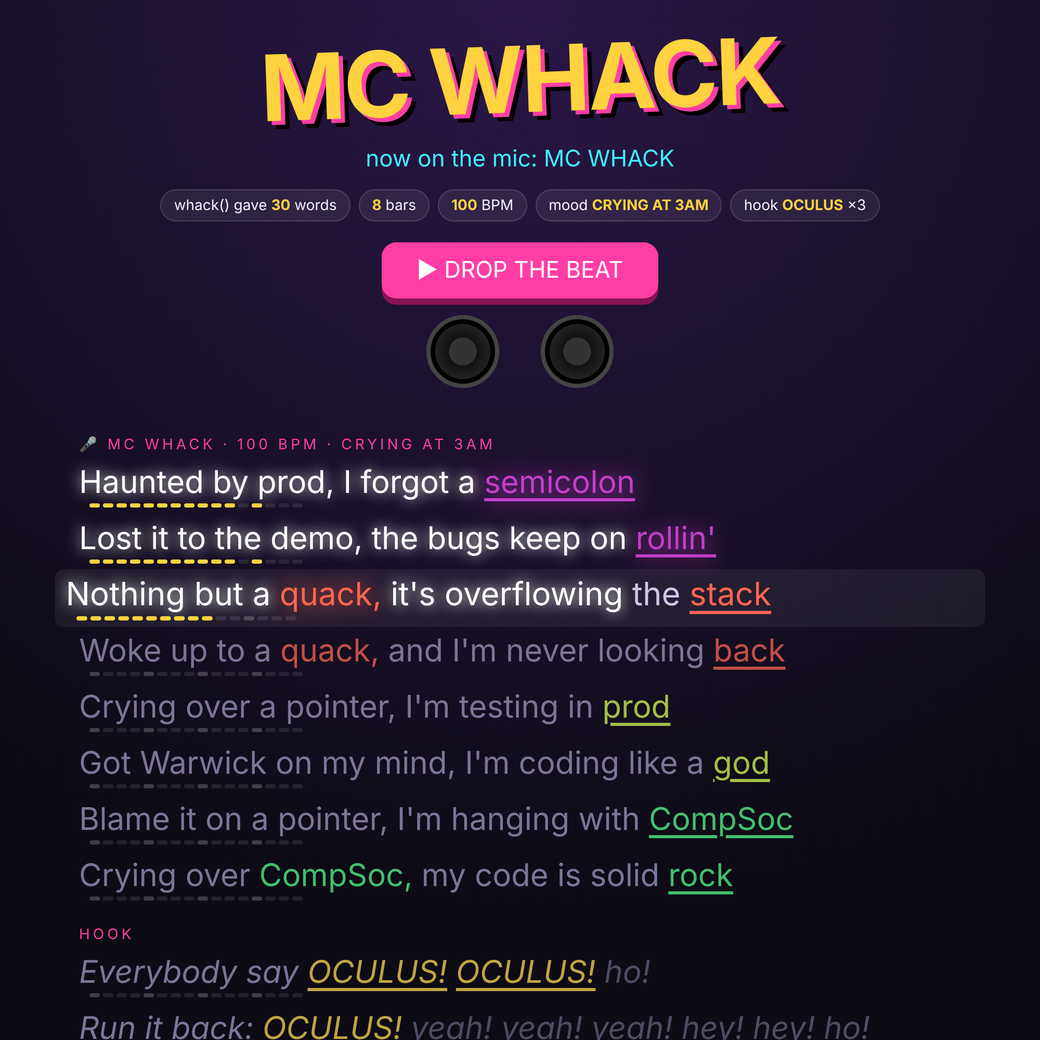
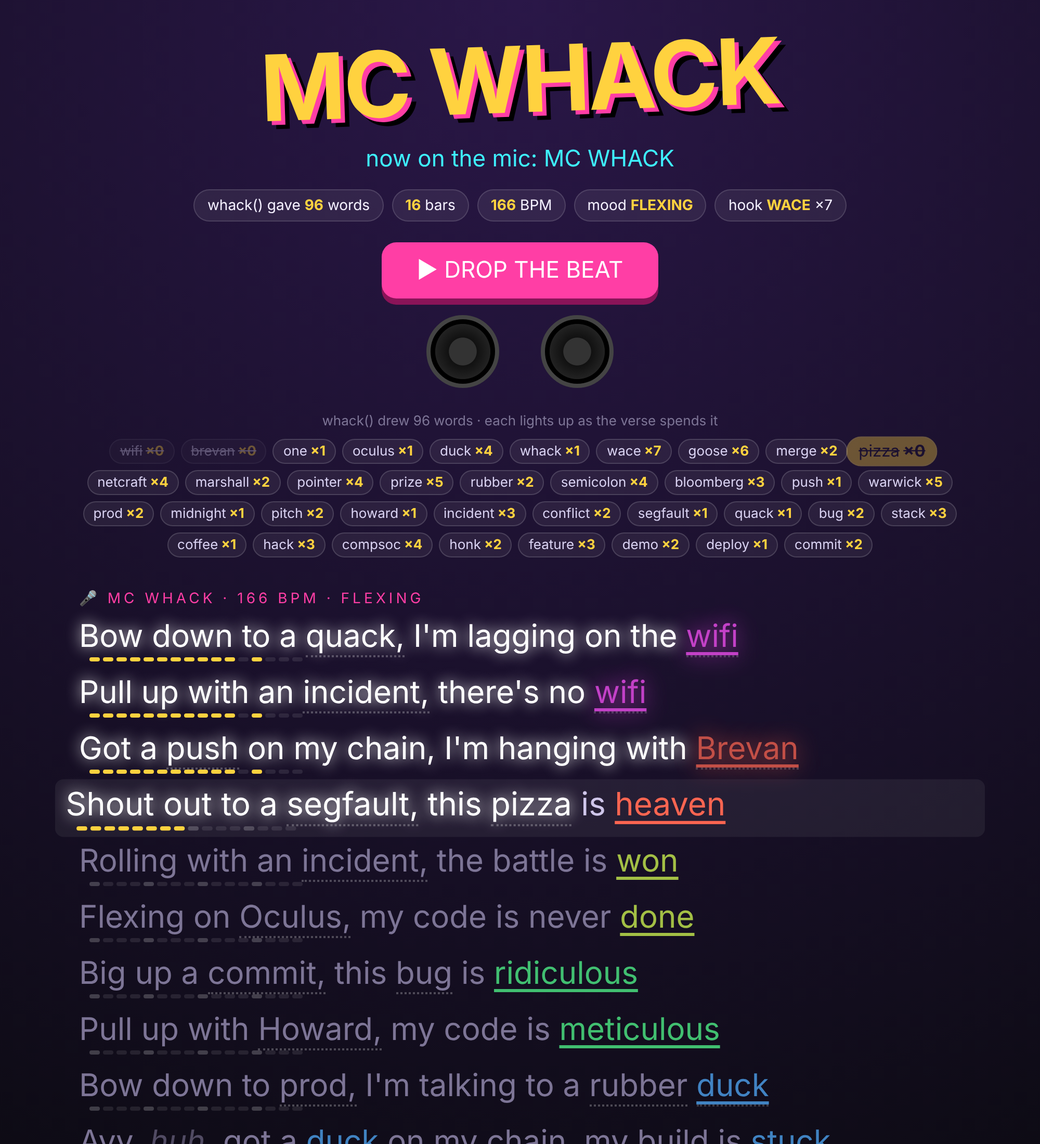
MC WHACK: replace raw whack() dump with word chips that count down as the verse uses them
Claude-Session: https://claude.ai/code/session_01NchHMKWQKNwH82y9pP3Ypa

Changed region(s): [[0.031, 0.031, 0.93, 1.0], [0.868, 0.682, 0.961, 0.744], [0.31, 0.341, 0.341, 0.372]]

diff --git a/submissions/felixlyon12/example_verse.html b/submissions/felixlyon12/example_verse.html
@@ -40,6 +40,15 @@
   .line.hook { font-style:italic; }
   .sec { color:var(--pink); font-size:14px; letter-spacing:3px; margin:18px 10px 4px; font-family:system-ui,sans-serif; }
   .winner { text-align:center; font-size:40px; color:var(--hot); margin:20px; }
+  #tray { max-width:900px; margin:6px auto 0; padding:0 16px; text-align:center; font-family:system-ui,sans-serif; }
+  #tray .lbl { color:var(--dim); font-size:13px; margin-bottom:6px; }
+  .chip { display:inline-block; margin:3px; padding:3px 9px; border-radius:999px; font-size:13px;
+          background:#ffffff10; border:1px solid #ffffff25; color:#d9d2f2; transition:all .15s; }
+  .chip b { color:var(--hot); margin-left:3px; }
+  .chip.flash { background:var(--hot); color:#1a1030; transform:scale(1.2); }
+  .chip.flash b { color:#1a1030; }
+  .chip.spent { opacity:.35; text-decoration:line-through; }
+  .line .w.lw { border-bottom:2px dotted #ffffff40; }
   #source { max-width:900px; margin:0 auto 40px; padding:0 16px; font-family:ui-monospace,monospace; font-size:12px;
             color:var(--dim); word-break:break-word; }
 </style>
@@ -53,10 +62,11 @@
   <button id="again" style="background:#3a2d5c;box-shadow:0 6px 0 #1d1530">🎲 NEW VERSE</button>
   <div id="speakers"><div class="spk"></div><div class="spk"></div></div>
 </header>
+<div id="tray"></div>
 <div id="lyrics"></div>
 <div id="source"></div>
 <script>
-let VERSES = [{"words": ["semicolon", "oculus", "stack", "prod", "compsoc", "netcraft", "wifi", "push", "incident", "warwick", "demo", "quack", "one", "commit", "oculus", "goose", "pointer", "oculus", "coffee", "quack", "coffee", "prod", "stack", "compsoc", "sleep", "merge", "wifi", "commit", "null", "pointer"], "count": 30, "bars": 8, "bpm": 100, "mood": "CRYING AT 3AM", "hook": "oculus", "hook_count": 3, "lines": [{"tokens": [{"t": "Haunted ", "syl": 2, "kind": "word", "fam": "olon"}, {"t": "by ", "syl": 1, "kind": "word", "fam": "olon"}, {"t": "prod, ", "syl": 1, "kind": "word", "fam": "olon"}, {"t": "I ", "syl": 1, "kind": "word", "fam": "olon"}, {"t": "forgot ", "syl": 2, "kind": "word", "fam": "olon"}, {"t": "a ", "syl": 1, "kind": "word", "fam": "olon"}, {"t": "semicolon", "syl": 4, "kind": "end", "fam": "olon"}], "end": "semicolon", "family": "olon", "whack": true, "whack_rhymes": 0}, {"tokens": [{"t": "Lost ", "syl": 1, "kind": "word", "fam": "olon"}, {"t": "it ", "syl": 1, "kind": "word", "fam": "olon"}, {"t": "to ", "syl": 1, "kind": "word", "fam": "olon"}, {"t": "the ", "syl": 1, "kind": "word", "fam": "olon"}, {"t": "demo, ", "syl": 2, "kind": "word", "fam": "olon"}, {"t": "the ", "syl": 1, "kind": "word", "fam": "olon"}, {"t": "bugs ", "syl": 1, "kind": "word", "fam": "olon"}, {"t": "keep ", "syl": 1, "kind": "word", "fam": "olon"}, {"t": "on ", "syl": 1, "kind": "word", "fam": "olon"}, {"t": "rollin'", "syl": 2, "kind": "end", "fam": "olon"}], "end": "rollin'", "family": "olon", "whack": false, "whack_rhymes": 0}, {"tokens": [{"t": "Nothing ", "syl": 2, "kind": "word", "fam": "ack"}, {"t": "but ", "syl": 1, "kind": "word", "fam": "ack"}, {"t": "a ", "syl": 1, "kind": "word", "fam": "ack"}, {"t": "quack, ", "syl": 1, "kind": "rhyme", "fam": "ack"}, {"t": "it's ", "syl": 1, "kind": "word", "fam": "ack"}, {"t": "overflowing ", "syl": 4, "kind": "word", "fam": "ack"}, {"t": "the ", "syl": 1, "kind": "word", "fam": "ack"}, {"t": "stack", "syl": 1, "kind": "end", "fam": "ack"}], "end": "stack", "family": "ack", "whack": true, "whack_rhymes": 1}, {"tokens": [{"t": "Woke ", "syl": 1, "kind": "word", "fam": "ack"}, {"t": "up ", "syl": 1, "kind": "word", "fam": "ack"}, {"t": "to ", "syl": 1, "kind": "word", "fam": "ack"}, {"t": "a ", "syl": 1, "kind": "word", "fam": "ack"}, {"t": "quack, ", "syl": 1, "kind": "rhyme", "fam": "ack"}, {"t": "and ", "syl": 1, "kind": "word", "fam": "ack"}, {"t": "I'm ", "syl": 1, "kind": "word", "fam": "ack"}, {"t": "never ", "syl": 2, "kind": "word", "fam": "ack"}, {"t": "looking ", "syl": 2, "kind": "word", "fam": "ack"}, {"t": "back", "syl": 1, "kind": "end", "fam": "ack"}], "end": "back", "family": "ack", "whack": false, "whack_rhymes": 1}, {"tokens": [{"t": "Crying ", "syl": 2, "kind": "word", "fam": "od"}, {"t": "over ", "syl": 2, "kind": "word", "fam": "od"}, {"t": "a ", "syl": 1, "kind": "word", "fam": "od"}, {"t": "pointer, ", "syl": 2, "kind": "word", "fam": "od"}, {"t": "I'm ", "syl": 1, "kind": "word", "fam": "od"}, {"t": "testing ", "syl": 2, "kind": "word", "fam": "od"}, {"t": "in ", "syl": 1, "kind": "word", "fam": "od"}, {"t": "prod", "syl": 1, "kind": "end", "fam": "od"}], "end": "prod", "family": "od", "whack": true, "whack_rhymes": 0}, {"tokens": [{"t": "Got ", "syl": 1, "kind": "word", "fam": "od"}, {"t": "Warwick ", "syl": 2, "kind": "word", "fam": "od"}, {"t": "on ", "syl": 1, "kind": "word", "fam": "od"}, {"t": "my ", "syl": 1, "kind": "word", "fam": "od"}, {"t": "mind, ", "syl": 1, "kind": "word", "fam": "od"}, {"t": "I'm ", "syl": 1, "kind": "word", "fam": "od"}, {"t": "coding ", "syl": 2, "kind": "word", "fam": "od"}, {"t": "like ", "syl": 1, "kind": "word", "fam": "od"}, {"t": "a ", "syl": 1, "kind": "word", "fam": "od"}, {"t": "god", "syl": 1, "kind": "end", "fam": "od"}], "end": "god", "family": "od", "whack": false, "whack_rhymes": 0}, {"tokens": [{"t": "Blame ", "syl": 1, "kind": "word", "fam": "ock"}, {"t": "it ", "syl": 1, "kind": "word", "fam": "ock"}, {"t": "on ", "syl": 1, "kind": "word", "fam": "ock"}, {"t": "a ", "syl": 1, "kind": "word", "fam": "ock"}, {"t": "pointer, ", "syl": 2, "kind": "word", "fam": "ock"}, {"t": "I'm ", "syl": 1, "kind": "word", "fam": "ock"}, {"t": "hanging ", "syl": 2, "kind": "word", "fam": "ock"}, {"t": "with ", "syl": 1, "kind": "word", "fam": "ock"}, {"t": "CompSoc", "syl": 2, "kind": "end", "fam": "ock"}], "end": "compsoc", "family": "ock", "whack": true, "whack_rhymes": 0}, {"tokens": [{"t": "Crying ", "syl": 2, "kind": "word", "fam": "ock"}, {"t": "over ", "syl": 2, "kind": "word", "fam": "ock"}, {"t": "CompSoc, ", "syl": 2, "kind": "rhyme", "fam": "ock"}, {"t": "my ", "syl": 1, "kind": "word", "fam": "ock"}, {"t": "code ", "syl": 1, "kind": "word", "fam": "ock"}, {"t": "is ", "syl": 1, "kind": "word", "fam": "ock"}, {"t": "solid ", "syl": 2, "kind": "word", "fam": "ock"}, {"t": "rock", "syl": 1, "kind": "end", "fam": "ock"}], "end": "rock", "family": "ock", "whack": false, "whack_rhymes": 1}, {"tokens": [{"t": "Everybody ", "syl": 4, "kind": "text", "fam": null}, {"t": "say ", "syl": 1, "kind": "text", "fam": null}, {"t": "OCULUS! ", "syl": 3, "kind": "end", "fam": "hook"}, {"t": "OCULUS! ", "syl": 3, "kind": "end", "fam": "hook"}, {"t": "ho!", "syl": 1, "kind": "adlib", "fam": null}], "end": "oculus", "family": "hook", "whack": true, "whack_rhymes": 0}, {"tokens": [{"t": "Run ", "syl": 1, "kind": "text", "fam": null}, {"t": "it ", "syl": 1, "kind": "text", "fam": null}, {"t": "back: ", "syl": 1, "kind": "text", "fam": null}, {"t": "OCULUS! ", "syl": 3, "kind": "end", "fam": "hook"}, {"t": "yeah! ", "syl": 1, "kind": "adlib", "fam": null}, {"t": "yeah! ", "syl": 1, "kind": "adlib", "fam": null}, {"t": "yeah! ", "syl": 1, "kind": "adlib", "fam": null}, {"t": "hey! ", "syl": 1, "kind": "adlib", "fam": null}, {"t": "hey! ", "syl": 1, "kind": "adlib", "fam": null}, {"t": "ho!", "syl": 1, "kind": "adlib", "fam": null}], "end": "oculus", "family": "hook", "whack": true, "whack_rhymes": 0}], "flow": [0, 1, 2, 3, 4, 5, 6, 7, 8, 9, 10, 12], "true_rhymes": 7, "mc": "MC WHACK"}];
+let VERSES = [{"words": ["wifi", "brevan", "one", "oculus", "duck", "whack", "wace", "goose", "wace", "merge", "pizza", "duck", "netcraft", "marshall", "pointer", "prize", "prize", "rubber", "wace", "prize", "semicolon", "bloomberg", "push", "wace", "warwick", "prod", "midnight", "pitch", "pitch", "duck", "netcraft", "marshall", "howard", "incident", "conflict", "segfault", "quack", "push", "quack", "semicolon", "wace", "warwick", "goose", "bug", "stack", "coffee", "goose", "duck", "pointer", "hack", "compsoc", "goose", "segfault", "semicolon", "stack", "pointer", "honk", "feature", "wace", "bloomberg", "demo", "demo", "honk", "wace", "deploy", "stack", "warwick", "feature", "compsoc", "goose", "pointer", "commit", "compsoc", "incident", "hack", "commit", "feature", "hack", "warwick", "incident", "bloomberg", "goose", "semicolon", "prize", "prod", "conflict", "netcraft", "netcraft", "compsoc", "rubber", "warwick", "merge", "wifi", "prize", "incident", "bug"], "count": 96, "bars": 16, "bpm": 166, "mood": "FLEXING", "hook": "wace", "hook_count": 7, "lines": [{"tokens": [{"t": "Bow ", "syl": 1, "kind": "word", "fam": "ifi", "list": null}, {"t": "down ", "syl": 1, "kind": "word", "fam": "ifi", "list": null}, {"t": "to ", "syl": 1, "kind": "word", "fam": "ifi", "list": null}, {"t": "a ", "syl": 1, "kind": "word", "fam": "ifi", "list": null}, {"t": "quack, ", "syl": 1, "kind": "word", "fam": "ifi", "list": "quack"}, {"t": "I'm ", "syl": 1, "kind": "word", "fam": "ifi", "list": null}, {"t": "lagging ", "syl": 2, "kind": "word", "fam": "ifi", "list": null}, {"t": "on ", "syl": 1, "kind": "word", "fam": "ifi", "list": null}, {"t": "the ", "syl": 1, "kind": "word", "fam": "ifi", "list": null}, {"t": "wifi", "syl": 2, "kind": "end", "fam": "ifi", "list": "wifi"}], "end": "wifi", "family": "ifi", "whack": true, "whack_rhymes": 0}, {"tokens": [{"t": "Pull ", "syl": 1, "kind": "word", "fam": "ifi", "list": null}, {"t": "up ", "syl": 1, "kind": "word", "fam": "ifi", "list": null}, {"t": "with ", "syl": 1, "kind": "word", "fam": "ifi", "list": null}, {"t": "an ", "syl": 1, "kind": "word", "fam": "ifi", "list": null}, {"t": "incident, ", "syl": 3, "kind": "word", "fam": "ifi", "list": "incident"}, {"t": "there's ", "syl": 2, "kind": "word", "fam": "ifi", "list": null}, {"t": "no ", "syl": 1, "kind": "word", "fam": "ifi", "list": null}, {"t": "wifi", "syl": 2, "kind": "end", "fam": "ifi", "list": "wifi"}], "end": "wifi", "family": "ifi", "whack": true, "whack_rhymes": 0}, {"tokens": [{"t": "Got ", "syl": 1, "kind": "word", "fam": "even", "list": null}, {"t": "a ", "syl": 1, "kind": "word", "fam": "even", "list": null}, {"t": "push ", "syl": 1, "kind": "word", "fam": "even", "list": "push"}, {"t": "on ", "syl": 1, "kind": "word", "fam": "even", "list": null}, {"t": "my ", "syl": 1, "kind": "word", "fam": "even", "list": null}, {"t": "chain, ", "syl": 1, "kind": "word", "fam": "even", "list": null}, {"t": "I'm ", "syl": 1, "kind": "word", "fam": "even", "list": null}, {"t": "hanging ", "syl": 2, "kind": "word", "fam": "even", "list": null}, {"t": "with ", "syl": 1, "kind": "word", "fam": "even", "list": null}, {"t": "Brevan", "syl": 2, "kind": "end", "fam": "even", "list": "brevan"}], "end": "brevan", "family": "even", "whack": true, "whack_rhymes": 0}, {"tokens": [{"t": "Shout ", "syl": 1, "kind": "word", "fam": "even", "list": null}, {"t": "out ", "syl": 1, "kind": "word", "fam": "even", "list": null}, {"t": "to ", "syl": 1, "kind": "word", "fam": "even", "list": null}, {"t": "a ", "syl": 1, "kind": "word", "fam": "even", "list": null}, {"t": "segfault, ", "syl": 2, "kind": "word", "fam": "even", "list": "segfault"}, {"t": "this ", "syl": 1, "kind": "word", "fam": "even", "list": null}, {"t": "pizza ", "syl": 2, "kind": "word", "fam": "even", "list": "pizza"}, {"t": "is ", "syl": 1, "kind": "word", "fam": "even", "list": null}, {"t": "heaven", "syl": 2, "kind": "end", "fam": "even", "list": null}], "end": "heaven", "family": "even", "whack": false, "whack_rhymes": 0}, {"tokens": [{"t": "Rolling ", "syl": 2, "kind": "word", "fam": "un", "list": null}, {"t": "with ", "syl": 1, "kind": "word", "fam": "un", "list": null}, {"t": "an ", "syl": 1, "kind": "word", "fam": "un", "list": null}, {"t": "incident, ", "syl": 3, "kind": "word", "fam": "un", "list": "incident"}, {"t": "the ", "syl": 1, "kind": "word", "fam": "un", "list": null}, {"t": "battle ", "syl": 2, "kind": "word", "fam": "un", "list": null}, {"t": "is ", "syl": 1, "kind": "word", "fam": "un", "list": null}, {"t": "won", "syl": 1, "kind": "end", "fam": "un", "list": null}], "end": "won", "family": "un", "whack": false, "whack_rhymes": 0}, {"tokens": [{"t": "Flexing ", "syl": 2, "kind": "word", "fam": "un", "list": null}, {"t": "on ", "syl": 1, "kind": "word", "fam": "un", "list": null}, {"t": "Oculus, ", "syl": 3, "kind": "word", "fam": "un", "list": "oculus"}, {"t": "my ", "syl": 1, "kind": "word", "fam": "un", "list": null}, {"t": "code ", "syl": 1, "kind": "word", "fam": "un", "list": null}, {"t": "is ", "syl": 1, "kind": "word", "fam": "un", "list": null}, {"t": "never ", "syl": 2, "kind": "word", "fam": "un", "list": null}, {"t": "done", "syl": 1, "kind": "end", "fam": "un", "list": null}], "end": "done", "family": "un", "whack": false, "whack_rhymes": 0}, {"tokens": [{"t": "Big ", "syl": 1, "kind": "word", "fam": "iculous", "list": null}, {"t": "up ", "syl": 1, "kind": "word", "fam": "iculous", "list": null}, {"t": "a ", "syl": 1, "kind": "word", "fam": "iculous", "list": null}, {"t": "commit, ", "syl": 2, "kind": "word", "fam": "iculous", "list": "commit"}, {"t": "this ", "syl": 1, "kind": "word", "fam": "iculous", "list": null}, {"t": "bug ", "syl": 1, "kind": "word", "fam": "iculous", "list": "bug"}, {"t": "is ", "syl": 1, "kind": "word", "fam": "iculous", "list": null}, {"t": "ridiculous", "syl": 4, "kind": "end", "fam": "iculous", "list": null}], "end": "ridiculous", "family": "iculous", "whack": false, "whack_rhymes": 0}, {"tokens": [{"t": "Pull ", "syl": 1, "kind": "word", "fam": "iculous", "list": null}, {"t": "up ", "syl": 1, "kind": "word", "fam": "iculous", "list": null}, {"t": "with ", "syl": 1, "kind": "word", "fam": "iculous", "list": null}, {"t": "Howard, ", "syl": 2, "kind": "word", "fam": "iculous", "list": "howard"}, {"t": "my ", "syl": 1, "kind": "word", "fam": "iculous", "list": null}, {"t": "code ", "syl": 1, "kind": "word", "fam": "iculous", "list": null}, {"t": "is ", "syl": 1, "kind": "word", "fam": "iculous", "list": null}, {"t": "meticulous", "syl": 4, "kind": "end", "fam": "iculous", "list": null}], "end": "meticulous", "family": "iculous", "whack": false, "whack_rhymes": 0}, {"tokens": [{"t": "Bow ", "syl": 1, "kind": "word", "fam": "uck", "list": null}, {"t": "down ", "syl": 1, "kind": "word", "fam": "uck", "list": null}, {"t": "to ", "syl": 1, "kind": "word", "fam": "uck", "list": null}, {"t": "prod, ", "syl": 1, "kind": "word", "fam": "uck", "list": "prod"}, {"t": "I'm ", "syl": 1, "kind": "word", "fam": "uck", "list": null}, {"t": "talking ", "syl": 2, "kind": "word", "fam": "uck", "list": null}, {"t": "to ", "syl": 1, "kind": "word", "fam": "uck", "list": null}, {"t": "a ", "syl": 1, "kind": "word", "fam": "uck", "list": null}, {"t": "rubber ", "syl": 2, "kind": "word", "fam": "uck", "list": "rubber"}, {"t": "duck", "syl": 1, "kind": "end", "fam": "uck", "list": "duck"}], "end": "duck", "family": "uck", "whack": true, "whack_rhymes": 0}, {"tokens": [{"t": "Ayy, ", "syl": 1, "kind": "word", "fam": "uck", "list": null}, {"t": "huh, ", "syl": 1, "kind": "adlib", "fam": "uck", "list": null}, {"t": "got ", "syl": 1, "kind": "word", "fam": "uck", "list": null}, {"t": "a ", "syl": 1, "kind": "word", "fam": "uck", "list": null}, {"t": "duck ", "syl": 1, "kind": "rhyme", "fam": "uck", "list": "duck"}, {"t": "on ", "syl": 1, "kind": "word", "fam": "uck", "list": null}, {"t": "my ", "syl": 1, "kind": "word", "fam": "uck", "list": null}, {"t": "chain, ", "syl": 1, "kind": "word", "fam": "uck", "list": null}, {"t": "my ", "syl": 1, "kind": "word", "fam": "uck", "list": null}, {"t": "build ", "syl": 1, "kind": "word", "fam": "uck", "list": null}, {"t": "is ", "syl": 1, "kind": "word", "fam": "uck", "list": null}, {"t": "stuck", "syl": 1, "kind": "end", "fam": "uck", "list": null}], "end": "stuck", "family": "uck", "whack": false, "whack_rhymes": 1}, {"tokens": [{"t": "Yeah, ", "syl": 1, "kind": "word", "fam": "ack", "list": null}, {"t": "yo, ", "syl": 1, "kind": "adlib", "fam": "ack", "list": null}, {"t": "rolling ", "syl": 2, "kind": "word", "fam": "ack", "list": null}, {"t": "with ", "syl": 1, "kind": "word", "fam": "ack", "list": null}, {"t": "the ", "syl": 1, "kind": "word", "fam": "ack", "list": null}, {"t": "stack, ", "syl": 1, "kind": "rhyme", "fam": "ack", "list": "stack"}, {"t": "the ", "syl": 1, "kind": "word", "fam": "ack", "list": null}, {"t": "duck ", "syl": 1, "kind": "word", "fam": "ack", "list": "duck"}, {"t": "just ", "syl": 1, "kind": "word", "fam": "ack", "list": null}, {"t": "said ", "syl": 1, "kind": "word", "fam": "ack", "list": null}, {"t": "quack", "syl": 1, "kind": "end", "fam": "ack", "list": "quack"}], "end": "quack", "family": "ack", "whack": true, "whack_rhymes": 1}, {"tokens": [{"t": "Shout ", "syl": 1, "kind": "word", "fam": "ack", "list": null}, {"t": "out ", "syl": 1, "kind": "word", "fam": "ack", "list": null}, {"t": "to ", "syl": 1, "kind": "word", "fam": "ack", "list": null}, {"t": "a ", "syl": 1, "kind": "word", "fam": "ack", "list": null}, {"t": "hack, ", "syl": 1, "kind": "rhyme", "fam": "ack", "list": "hack"}, {"t": "it's ", "syl": 1, "kind": "word", "fam": "ack", "list": null}, {"t": "overflowing ", "syl": 4, "kind": "word", "fam": "ack", "list": null}, {"t": "the ", "syl": 1, "kind": "word", "fam": "ack", "list": null}, {"t": "stack", "syl": 1, "kind": "end", "fam": "ack", "list": "stack"}], "end": "stack", "family": "ack", "whack": true, "whack_rhymes": 1}, {"tokens": [{"t": "Flexing ", "syl": 2, "kind": "word", "fam": "ace", "list": null}, {"t": "on ", "syl": 1, "kind": "word", "fam": "ace", "list": null}, {"t": "a ", "syl": 1, "kind": "word", "fam": "ace", "list": null}, {"t": "conflict, ", "syl": 2, "kind": "word", "fam": "ace", "list": "conflict"}, {"t": "a ", "syl": 1, "kind": "word", "fam": "ace", "list": null}, {"t": "smile ", "syl": 2, "kind": "word", "fam": "ace", "list": null}, {"t": "on ", "syl": 1, "kind": "word", "fam": "ace", "list": null}, {"t": "my ", "syl": 1, "kind": "word", "fam": "ace", "list": null}, {"t": "face", "syl": 1, "kind": "end", "fam": "ace", "list": null}], "end": "face", "family": "ace", "whack": false, "whack_rhymes": 0}, {"tokens": [{"t": "Big ", "syl": 1, "kind": "word", "fam": "ace", "list": null}, {"t": "up ", "syl": 1, "kind": "word", "fam": "ace", "list": null}, {"t": "a ", "syl": 1, "kind": "word", "fam": "ace", "list": null}, {"t": "semicolon, ", "syl": 4, "kind": "word", "fam": "ace", "list": "semicolon"}, {"t": "I'm ", "syl": 1, "kind": "word", "fam": "ace", "list": null}, {"t": "winning ", "syl": 2, "kind": "word", "fam": "ace", "list": null}, {"t": "the ", "syl": 1, "kind": "word", "fam": "ace", "list": null}, {"t": "race", "syl": 1, "kind": "end", "fam": "ace", "list": null}], "end": "race", "family": "ace", "whack": false, "whack_rhymes": 0}, {"tokens": [{"t": "Shout ", "syl": 1, "kind": "word", "fam": "oose", "list": null}, {"t": "out ", "syl": 1, "kind": "word", "fam": "oose", "list": null}, {"t": "to ", "syl": 1, "kind": "word", "fam": "oose", "list": null}, {"t": "a ", "syl": 1, "kind": "word", "fam": "oose", "list": null}, {"t": "conflict, ", "syl": 2, "kind": "word", "fam": "oose", "list": "conflict"}, {"t": "I'm ", "syl": 1, "kind": "word", "fam": "oose", "list": null}, {"t": "chased ", "syl": 2, "kind": "word", "fam": "oose", "list": null}, {"t": "by ", "syl": 1, "kind": "word", "fam": "oose", "list": null}, {"t": "a ", "syl": 1, "kind": "word", "fam": "oose", "list": null}, {"t": "goose", "syl": 1, "kind": "end", "fam": "oose", "list": "goose"}], "end": "goose", "family": "oose", "whack": true, "whack_rhymes": 0}, {"tokens": [{"t": "Got ", "syl": 1, "kind": "word", "fam": "oose", "list": null}, {"t": "a ", "syl": 1, "kind": "word", "fam": "oose", "list": null}, {"t": "goose ", "syl": 1, "kind": "rhyme", "fam": "oose", "list": "goose"}, {"t": "on ", "syl": 1, "kind": "word", "fam": "oose", "list": null}, {"t": "my ", "syl": 1, "kind": "word", "fam": "oose", "list": null}, {"t": "chain, ", "syl": 1, "kind": "word", "fam": "oose", "list": null}, {"t": "my ", "syl": 1, "kind": "word", "fam": "oose", "list": null}, {"t": "code ", "syl": 1, "kind": "word", "fam": "oose", "list": null}, {"t": "is ", "syl": 1, "kind": "word", "fam": "oose", "list": null}, {"t": "running ", "syl": 2, "kind": "word", "fam": "oose", "list": null}, {"t": "loose", "syl": 1, "kind": "end", "fam": "oose", "list": null}], "end": "loose", "family": "oose", "whack": false, "whack_rhymes": 1}, {"tokens": [{"t": "Everybody ", "syl": 4, "kind": "text", "fam": null, "list": null}, {"t": "say ", "syl": 1, "kind": "text", "fam": null, "list": null}, {"t": "WACE! ", "syl": 1, "kind": "end", "fam": "hook", "list": "wace"}, {"t": "WACE! ", "syl": 1, "kind": "end", "fam": "hook", "list": "wace"}, {"t": "WACE! ", "syl": 1, "kind": "end", "fam": "hook", "list": "wace"}, {"t": "WACE! ", "syl": 1, "kind": "end", "fam": "hook", "list": "wace"}, {"t": "WACE! ", "syl": 1, "kind": "end", "fam": "hook", "list": "wace"}, {"t": "WACE! ", "syl": 1, "kind": "end", "fam": "hook", "list": "wace"}, {"t": "WACE!", "syl": 1, "kind": "end", "fam": "hook", "list": "wace"}], "end": "wace", "family": "hook", "whack": true, "whack_rhymes": 0}], "flow": [0, 1, 2, 3, 4, 5, 6, 7, 8, 9, 10, 12], "true_rhymes": 11, "mc": "MC WHACK"}];
 let ctx, master;
 let runId = 0;  // bumps on every stop, so stale timers from an old performance do nothing
 
@@ -83,7 +93,8 @@ VERSES.forEach((v, vi) => {
     let s = 0;
     l.tokens.forEach(t => {
       const sp = document.createElement("span");
-      sp.className = "w " + t.kind;
+      sp.className = "w " + t.kind + (t.list ? " lw" : "");
+      if (t.list) sp.dataset.list = t.list;
       sp.textContent = t.t.trimEnd();
       sp.dataset.step = v.flow[s];        // the 16th note this word starts on
       s += t.syl;
@@ -102,9 +113,32 @@ VERSES.forEach((v, vi) => {
     lyrics.appendChild(w);
   }
 });
-document.getElementById("source").textContent =
-  "Raw whack() output: " + VERSES.map(v => `${v.mc}: ${v.words.join(" ")}`).join("  ///  ");
+renderTray(VERSES[0]);
 showStats(VERSES[0]);
+}
+
+// The words whack() drew, as chips that count down as the verse spends them.
+function renderTray(v) {
+  const counts = {};
+  v.words.forEach(w => counts[w] = (counts[w] || 0) + 1);
+  const tray = document.getElementById("tray");
+  tray.innerHTML = `<div class="lbl">whack() drew ${v.count} words · each lights up as the verse spends it</div>`;
+  Object.entries(counts).forEach(([w, n]) => {
+    const c = document.createElement("span");
+    c.className = "chip"; c.dataset.w = w; c.dataset.left = n;
+    c.innerHTML = `${w}<b>×${n}</b>`;
+    tray.appendChild(c);
+  });
+}
+function spend(word) {
+  const c = document.querySelector(`.chip[data-w="${word}"]`);
+  if (!c) return;
+  const left = Math.max(0, +c.dataset.left - 1);
+  c.dataset.left = left;
+  c.querySelector("b").textContent = "×" + left;
+  c.classList.add("flash");
+  setTimeout(() => c.classList.remove("flash"), 220);
+  if (!left) c.classList.add("spent");
 }
 
 function showStats(v) {
@@ -161,6 +195,7 @@ function stopPerformance() {
   if (master) { master.disconnect(); master = null; }
   if ("speechSynthesis" in window) speechSynthesis.cancel();
   document.querySelectorAll(".on, .hit").forEach(e => e.classList.remove("on", "hit"));
+  if (VERSES.length) renderTray(VERSES[0]);  // refill the chips
   document.getElementById("go").disabled = false;
 }
 function kick(t) {
@@ -256,7 +291,10 @@ async function perform() {
           const el = lineEls[vi][li], st = sub / scale;
           setTimeout(() => {
             if (run !== runId) return;
-            el.querySelectorAll(`.w[data-step="${st}"]`).forEach(w => w.classList.add("hit"));
+            el.querySelectorAll(`.w[data-step="${st}"]`).forEach(w => {
+              w.classList.add("hit");
+              if (w.dataset.list) spend(w.dataset.list);
+            });
             const cell = el.querySelectorAll(".grid i")[st];
             if (v.flow.includes(st)) cell.classList.add("hit");
           }, Math.max(0, (t - ctx.currentTime) * 1000));

diff --git a/submissions/felixlyon12/player.html b/submissions/felixlyon12/player.html
@@ -40,6 +40,15 @@
   .line.hook { font-style:italic; }
   .sec { color:var(--pink); font-size:14px; letter-spacing:3px; margin:18px 10px 4px; font-family:system-ui,sans-serif; }
   .winner { text-align:center; font-size:40px; color:var(--hot); margin:20px; }
+  #tray { max-width:900px; margin:6px auto 0; padding:0 16px; text-align:center; font-family:system-ui,sans-serif; }
+  #tray .lbl { color:var(--dim); font-size:13px; margin-bottom:6px; }
+  .chip { display:inline-block; margin:3px; padding:3px 9px; border-radius:999px; font-size:13px;
+          background:#ffffff10; border:1px solid #ffffff25; color:#d9d2f2; transition:all .15s; }
+  .chip b { color:var(--hot); margin-left:3px; }
+  .chip.flash { background:var(--hot); color:#1a1030; transform:scale(1.2); }
+  .chip.flash b { color:#1a1030; }
+  .chip.spent { opacity:.35; text-decoration:line-through; }
+  .line .w.lw { border-bottom:2px dotted #ffffff40; }
   #source { max-width:900px; margin:0 auto 40px; padding:0 16px; font-family:ui-monospace,monospace; font-size:12px;
             color:var(--dim); word-break:break-word; }
 </style>
@@ -53,6 +62,7 @@
   <button id="again" style="background:#3a2d5c;box-shadow:0 6px 0 #1d1530">🎲 NEW VERSE</button>
   <div id="speakers"><div class="spk"></div><div class="spk"></div></div>
 </header>
+<div id="tray"></div>
 <div id="lyrics"></div>
 <div id="source"></div>
 <script>
@@ -83,7 +93,8 @@ VERSES.forEach((v, vi) => {
     let s = 0;
     l.tokens.forEach(t => {
       const sp = document.createElement("span");
-      sp.className = "w " + t.kind;
+      sp.className = "w " + t.kind + (t.list ? " lw" : "");
+      if (t.list) sp.dataset.list = t.list;
       sp.textContent = t.t.trimEnd();
       sp.dataset.step = v.flow[s];        // the 16th note this word starts on
       s += t.syl;
@@ -102,9 +113,32 @@ VERSES.forEach((v, vi) => {
     lyrics.appendChild(w);
   }
 });
-document.getElementById("source").textContent =
-  "Raw whack() output: " + VERSES.map(v => `${v.mc}: ${v.words.join(" ")}`).join("  ///  ");
+renderTray(VERSES[0]);
 showStats(VERSES[0]);
+}
+
+// The words whack() drew, as chips that count down as the verse spends them.
+function renderTray(v) {
+  const counts = {};
+  v.words.forEach(w => counts[w] = (counts[w] || 0) + 1);
+  const tray = document.getElementById("tray");
+  tray.innerHTML = `<div class="lbl">whack() drew ${v.count} words · each lights up as the verse spends it</div>`;
+  Object.entries(counts).forEach(([w, n]) => {
+    const c = document.createElement("span");
+    c.className = "chip"; c.dataset.w = w; c.dataset.left = n;
+    c.innerHTML = `${w}<b>×${n}</b>`;
+    tray.appendChild(c);
+  });
+}
+function spend(word) {
+  const c = document.querySelector(`.chip[data-w="${word}"]`);
+  if (!c) return;
+  const left = Math.max(0, +c.dataset.left - 1);
+  c.dataset.left = left;
+  c.querySelector("b").textContent = "×" + left;
+  c.classList.add("flash");
+  setTimeout(() => c.classList.remove("flash"), 220);
+  if (!left) c.classList.add("spent");
 }
 
 function showStats(v) {
@@ -161,6 +195,7 @@ function stopPerformance() {
   if (master) { master.disconnect(); master = null; }
   if ("speechSynthesis" in window) speechSynthesis.cancel();
   document.querySelectorAll(".on, .hit").forEach(e => e.classList.remove("on", "hit"));
+  if (VERSES.length) renderTray(VERSES[0]);  // refill the chips
   document.getElementById("go").disabled = false;
 }
 function kick(t) {
@@ -256,7 +291,10 @@ async function perform() {
           const el = lineEls[vi][li], st = sub / scale;
           setTimeout(() => {
             if (run !== runId) return;
-            el.querySelectorAll(`.w[data-step="${st}"]`).forEach(w => w.classList.add("hit"));
+            el.querySelectorAll(`.w[data-step="${st}"]`).forEach(w => {
+              w.classList.add("hit");
+              if (w.dataset.list) spend(w.dataset.list);
+            });
             const cell = el.querySelectorAll(".grid i")[st];
             if (v.flow.includes(st)) cell.classList.add("hit");
           }, Math.max(0, (t - ctx.currentTime) * 1000));

diff --git a/submissions/felixlyon12/spit.py b/submissions/felixlyon12/spit.py
@@ -304,6 +304,10 @@ def build_verse(words, file_words):
             budget, used = saved_budget, saved_used
 
     hook = hook_lines(hook_word, hook_count)
+    for l in lines + hook:  # tag every token that spends one of the whack() words
+        for t in l["tokens"]:
+            found = list_words_in(t["t"]) if t["kind"] != "adlib" else {}
+            t["list"] = next(iter(found), None)
     whack_rhymes = sum(l["whack_rhymes"] + l["whack"] for l in lines)
     for l in lines + hook:
         l.pop("need")

diff --git a/submissions/felixlyon12/README.md b/submissions/felixlyon12/README.md
@@ -32,6 +32,7 @@ Nothing is hand-picked. Every part of the song comes from `whack()`:
 - **Every bar is a real sentence.** The first half is built around a `whack()` word, with the right article ("Blame it on **the stack**,", "Shout out to **Bloomberg**,"). The second half is one of about 110 hand-written closers that end on a rhyme ("…my code is out of **whack**").
 - **Rhymes inside the line.** When `whack()` gives a word that rhymes with the closer, it goes in the first half: *"Blame it on a **whack**, it's overflowing the __stack__"*, *"Got a **segfault** on my mind, and it's all my __fault__"*.
 - **Every bar is exactly 12 syllables.** A hand-tuned syllable counter knows that `semicolon` is 4 and `io` is 2. The generator picks the opener, `whack()` word and closer that come closest to 12, then pads with ad-libs ("yo,", "skrrt,", "ayy,").
+- **Watch the verse spend the words.** The player shows every word `whack()` drew as a chip with a count (`goose ×6`). Words from the list have a dotted underline in the lyrics. When one is rapped, its chip flashes and counts down, and it's crossed out once it's used up.
 - **Each syllable has its own 16th note.** The last syllable, the rhyme, lands on the snare. In the player, every word lights up on its note, and a beat grid under each line fills in as it plays.
 
 ## Screenshot
